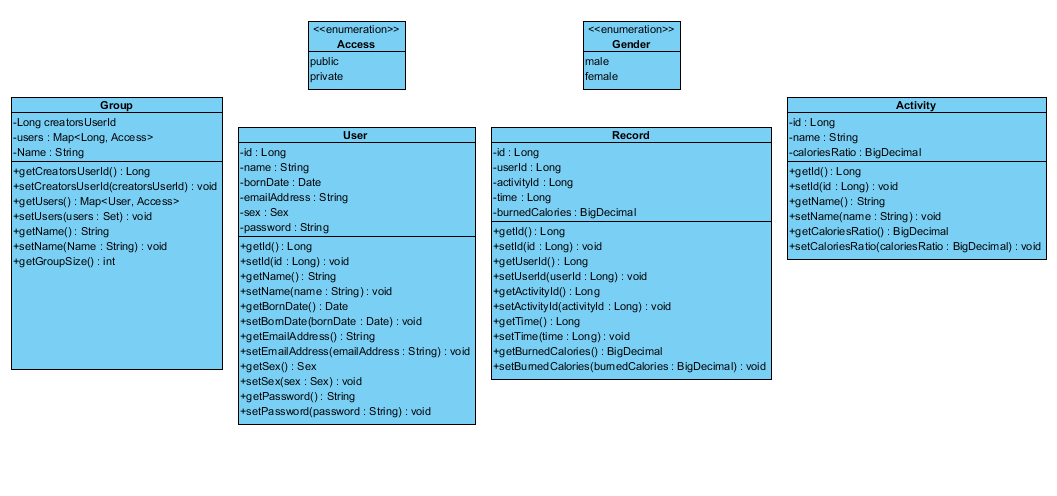
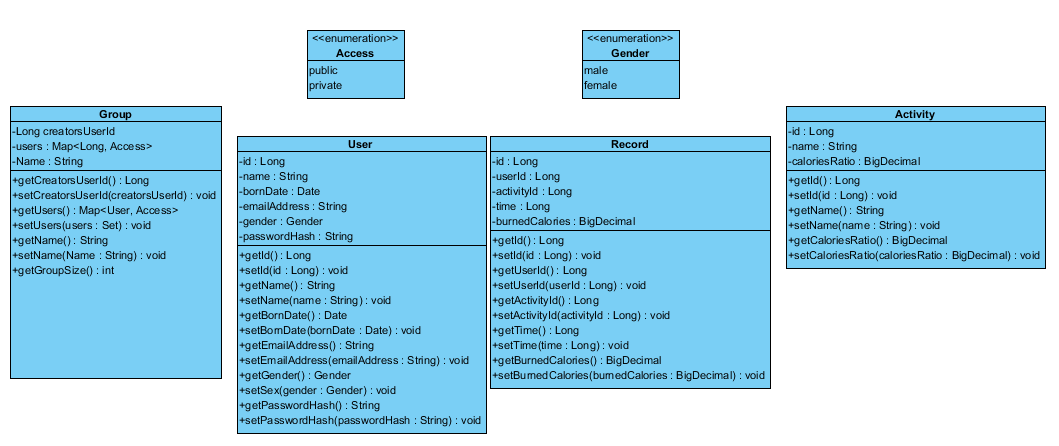
rearange project, user entity done.

Changed region(s): [[0.0, 0.0291, 0.9991, 0.991]]

diff --git a/src/main/java/cz/muni/fi/pa165/activeye/entities/User.java b/src/main/java/cz/muni/fi/pa165/activeye/entities/User.java
@@ -1,0 +1,92 @@
+package cz.muni.fi.pa165.activeye.entities;
+
+import cz.muni.fi.pa165.activeye.enums.Gender;
+import java.util.Date;
+import javax.persistence.*;
+import javax.validation.constraints.NotNull;
+
+
+/**
+ * Created by dubnickaf@gmail.com [445647] on windows user "Toshiba" on 24.10.2016.
+ * @author Filip Dubnička [445647]
+ */
+@Entity
+@Table(name = "Users")
+public class User {
+    @Id
+    @GeneratedValue(strategy = GenerationType.IDENTITY)
+    private Long id;
+
+    private String name;
+    @NotNull
+    private String emailAddress;
+    private Date bornDate;
+    private Gender gender;
+    private String passwordHash;
+
+
+
+    public Long getId() {
+        return id;
+    }
+
+    public void setId(Long id) {
+        this.id = id;
+    }
+
+    public String getName() {
+        return name;
+    }
+
+    public void setName(String name) {
+        this.name = name;
+    }
+
+    public String getEmailAddress() {
+        return emailAddress;
+    }
+
+    public void setEmailAddress(String emailAddress) {
+        this.emailAddress = emailAddress;
+    }
+
+    public Date getBornDate() {
+        return bornDate;
+    }
+
+    public void setBornDate(Date bornDate) {
+        this.bornDate = bornDate;
+    }
+
+    public Gender getGender() {
+        return gender;
+    }
+
+    public void setGender(Gender gender) {
+        this.gender = gender;
+    }
+
+    public String getPasswordHash() {
+        return passwordHash;
+    }
+
+    public void setPasswordHash(String passwordHash) {
+        this.passwordHash = passwordHash;
+    }
+
+    @Override
+    public boolean equals(Object o) {
+        if (this == o) return true;
+        if (o == null || getClass() != o.getClass()) return false;
+
+        User user = (User) o;
+
+        return emailAddress.equals(user.emailAddress);
+
+    }
+
+    @Override
+    public int hashCode() {
+        return emailAddress.hashCode();
+    }
+}

diff --git a/src/main/java/cz/muni/fi/pa165/activeye/dao/RecordDao.java b/src/main/java/cz/muni/fi/pa165/activeye/dao/RecordDao.java
@@ -1,8 +1,7 @@
-package activeye.enums;
+package cz.muni.fi.pa165.activeye.dao;
 
 /**
  * Created by dubnickaf@gmail.com [445647] on windows user "Toshiba" on 24.10.2016.
  */
-public enum Access {
-    PUBLIC,PRIVATE
+public interface RecordDao {
 }

diff --git a/src/test/java/cz/muni/fi/pa165/activeye/dao/ActivityDaoTest.java b/src/test/java/cz/muni/fi/pa165/activeye/dao/ActivityDaoTest.java
@@ -1,8 +1,7 @@
-package activeye.enums;
+package cz.muni.fi.pa165.activeye.dao;
 
 /**
  * Created by dubnickaf@gmail.com [445647] on windows user "Toshiba" on 24.10.2016.
  */
-public enum Gender {
-    MALE,FEMALE
+public class ActivityDaoTest {
 }

diff --git a/src/main/java/cz/muni/fi/pa165/activeye/dao/impl/ActivityDaoImpl.java b/src/main/java/cz/muni/fi/pa165/activeye/dao/impl/ActivityDaoImpl.java
@@ -1,7 +1,7 @@
-package activeye.entities;
+package cz.muni.fi.pa165.activeye.dao.impl;
 
 /**
  * Created by dubnickaf@gmail.com [445647] on windows user "Toshiba" on 24.10.2016.
  */
-public class Record {
+public class ActivityDaoImpl {
 }

diff --git a/src/main/java/cz/muni/fi/pa165/activeye/dao/impl/RecordDaoImpl.java b/src/main/java/cz/muni/fi/pa165/activeye/dao/impl/RecordDaoImpl.java
@@ -1,7 +1,7 @@
-package activeye.entities;
+package cz.muni.fi.pa165.activeye.dao.impl;
 
 /**
  * Created by dubnickaf@gmail.com [445647] on windows user "Toshiba" on 24.10.2016.
  */
-public class Activity {
+public class RecordDaoImpl {
 }

diff --git a/src/main/java/cz/muni/fi/pa165/activeye/dao/ActivityDao.java b/src/main/java/cz/muni/fi/pa165/activeye/dao/ActivityDao.java
@@ -1,7 +1,7 @@
-package activeye.dao;
+package cz.muni.fi.pa165.activeye.dao;
 
 /**
  * Created by dubnickaf@gmail.com [445647] on windows user "Toshiba" on 24.10.2016.
  */
-public interface RecordDao {
+public interface ActivityDao {
 }

diff --git a/src/main/java/cz/muni/fi/pa165/activeye/dao/impl/GroupDaoImpl.java b/src/main/java/cz/muni/fi/pa165/activeye/dao/impl/GroupDaoImpl.java
@@ -1,7 +1,7 @@
-package activeye.entities;
+package cz.muni.fi.pa165.activeye.dao.impl;
 
 /**
  * Created by dubnickaf@gmail.com [445647] on windows user "Toshiba" on 24.10.2016.
  */
-public class User {
+public class GroupDaoImpl {
 }

diff --git a/src/main/java/cz/muni/fi/pa165/activeye/dao/UserDao.java b/src/main/java/cz/muni/fi/pa165/activeye/dao/UserDao.java
@@ -1,7 +1,8 @@
-package activeye.dao;
+package cz.muni.fi.pa165.activeye.dao;
 
 /**
  * Created by dubnickaf@gmail.com [445647] on windows user "Toshiba" on 24.10.2016.
  */
-public interface GroupDao {
+public interface UserDao {
+
 }

diff --git a/src/main/java/cz/muni/fi/pa165/activeye/entities/Group.java b/src/main/java/cz/muni/fi/pa165/activeye/entities/Group.java
@@ -1,7 +1,7 @@
-package activeye.dao;
+package cz.muni.fi.pa165.activeye.entities;
 
 /**
  * Created by dubnickaf@gmail.com [445647] on windows user "Toshiba" on 24.10.2016.
  */
-public interface ActivityDao {
+public class Group {
 }

diff --git a/src/main/java/cz/muni/fi/pa165/activeye/entities/Activity.java b/src/main/java/cz/muni/fi/pa165/activeye/entities/Activity.java
@@ -1,7 +1,7 @@
-package activeye.entities;
+package cz.muni.fi.pa165.activeye.entities;
 
 /**
  * Created by dubnickaf@gmail.com [445647] on windows user "Toshiba" on 24.10.2016.
  */
-public class Group {
+public class Activity {
 }

diff --git a/src/main/java/cz/muni/fi/pa165/activeye/entities/Record.java b/src/main/java/cz/muni/fi/pa165/activeye/entities/Record.java
@@ -1,7 +1,7 @@
-package activeye.dao;
+package cz.muni.fi.pa165.activeye.entities;
 
 /**
  * Created by dubnickaf@gmail.com [445647] on windows user "Toshiba" on 24.10.2016.
  */
-public interface UserDao {
+public class Record {
 }

diff --git a/src/main/java/cz/muni/fi/pa165/activeye/enums/Access.java b/src/main/java/cz/muni/fi/pa165/activeye/enums/Access.java
@@ -1,0 +1,8 @@
+package cz.muni.fi.pa165.activeye.enums;
+
+/**
+ * Created by dubnickaf@gmail.com [445647] on windows user "Toshiba" on 24.10.2016.
+ */
+public enum Access {
+    PUBLIC,PRIVATE
+}
